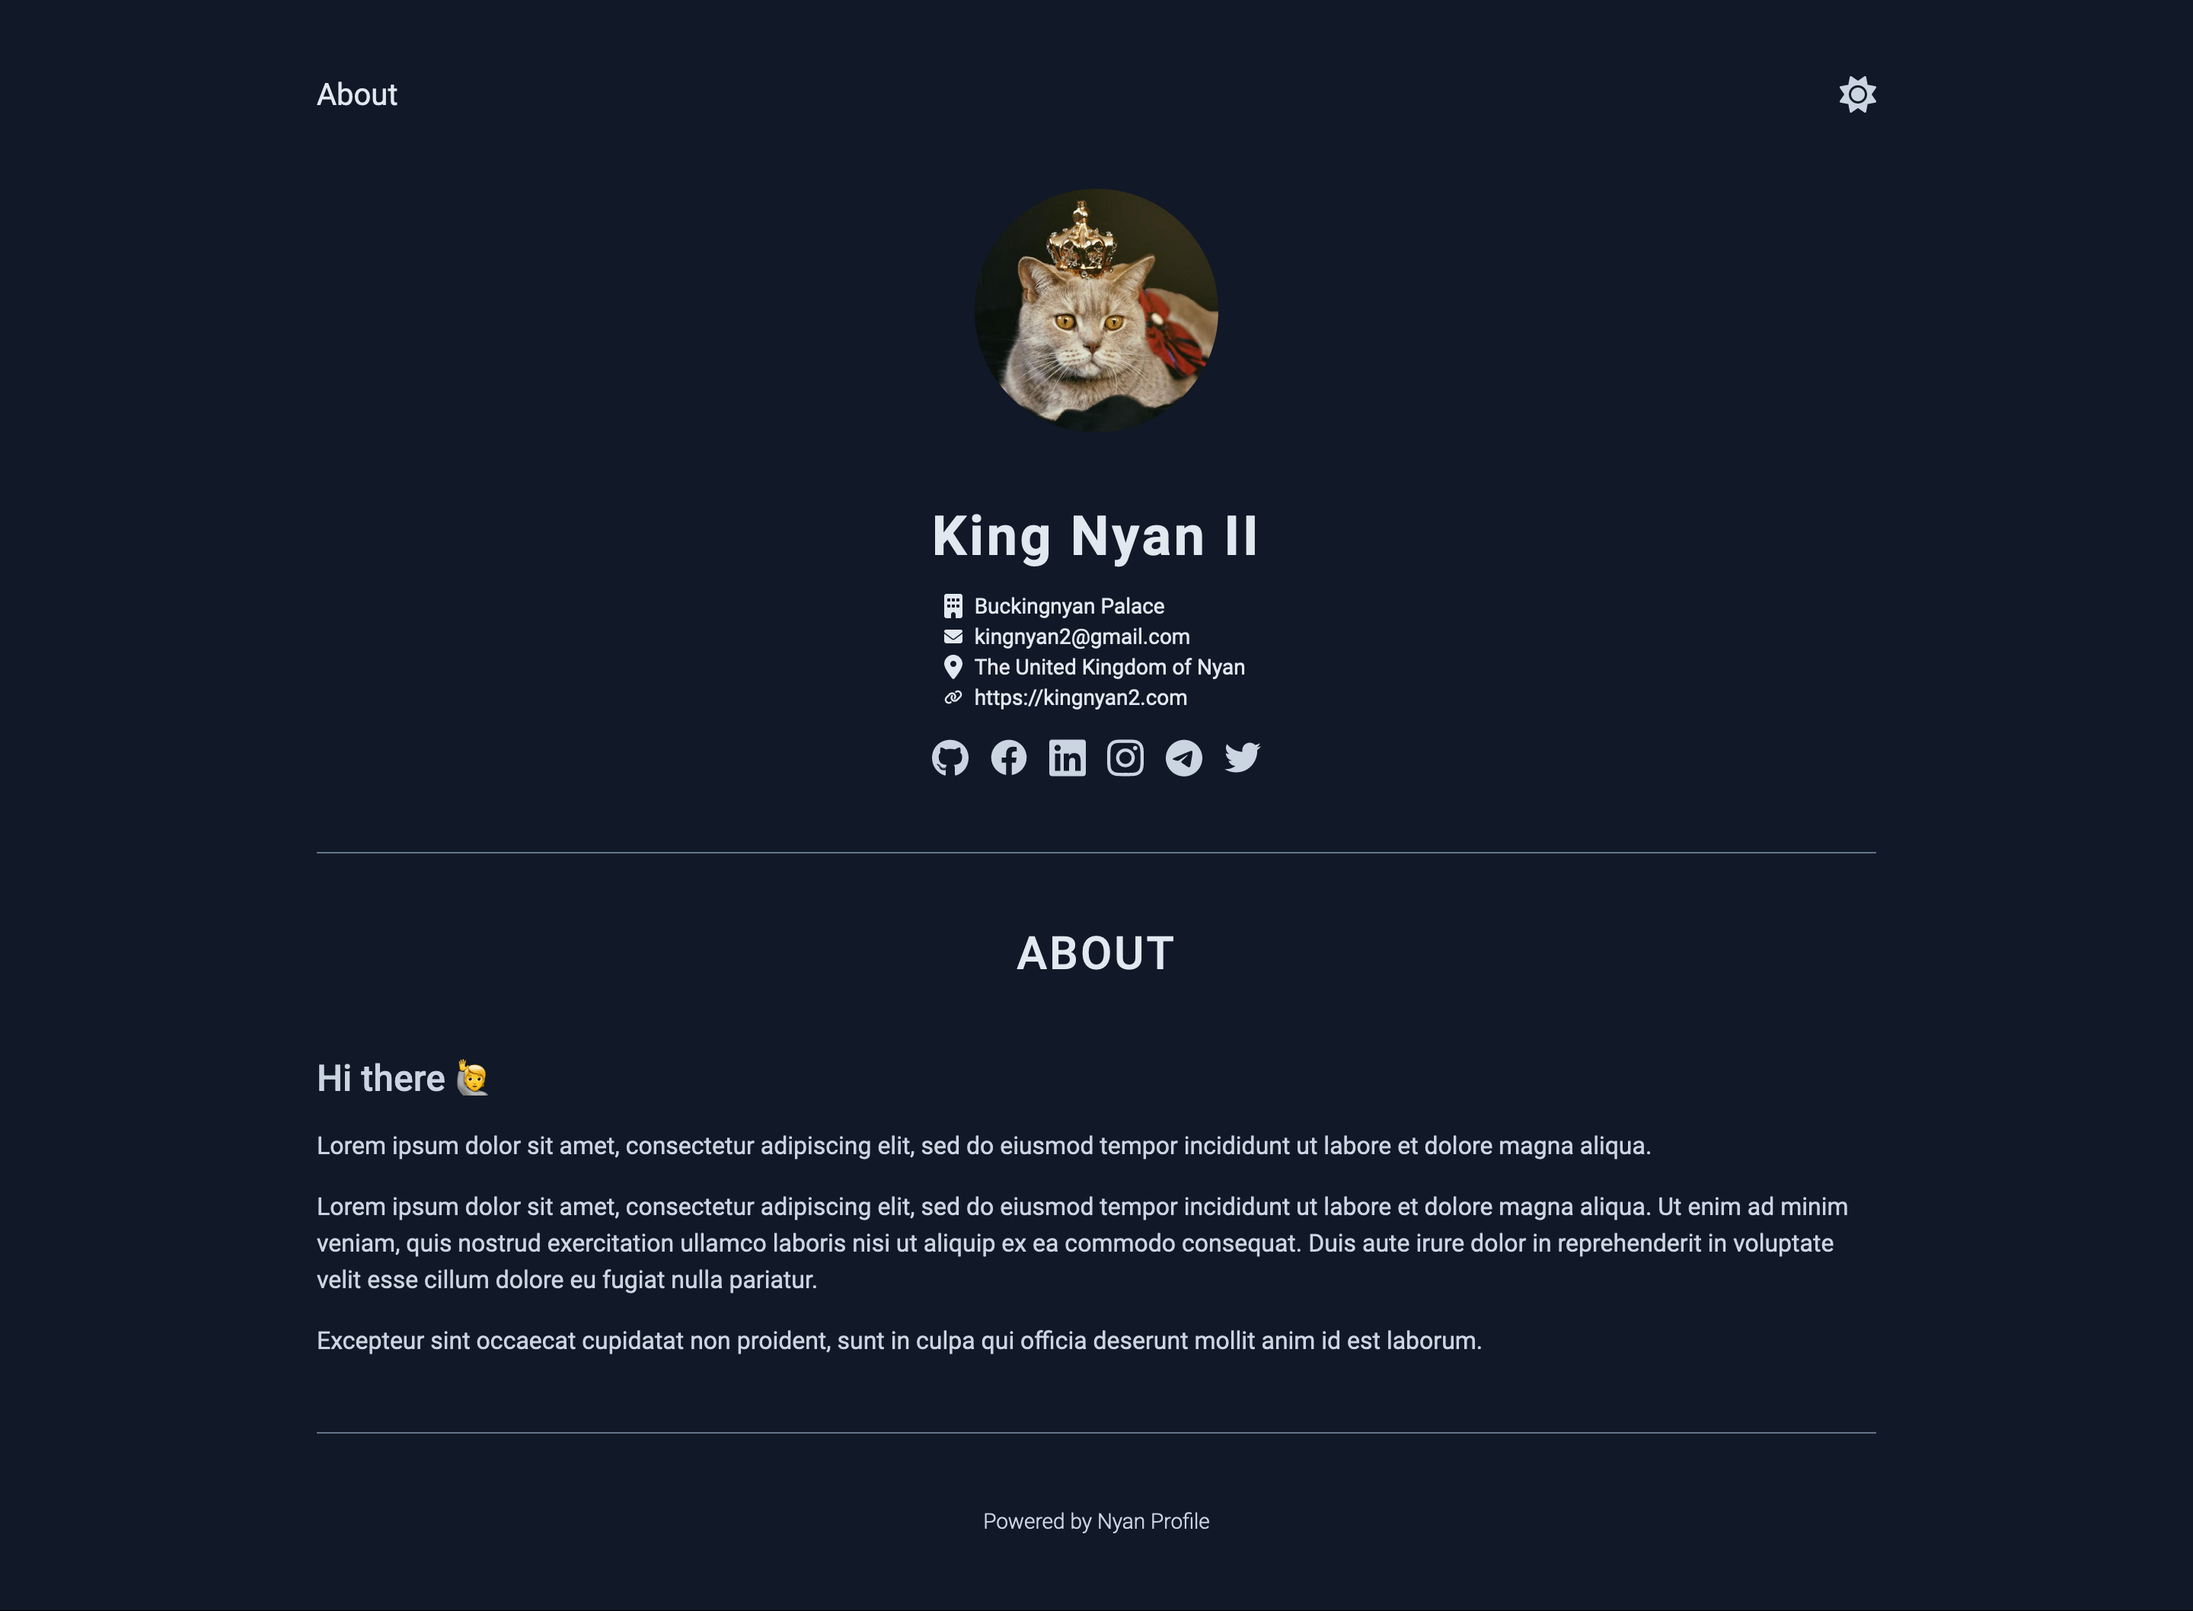
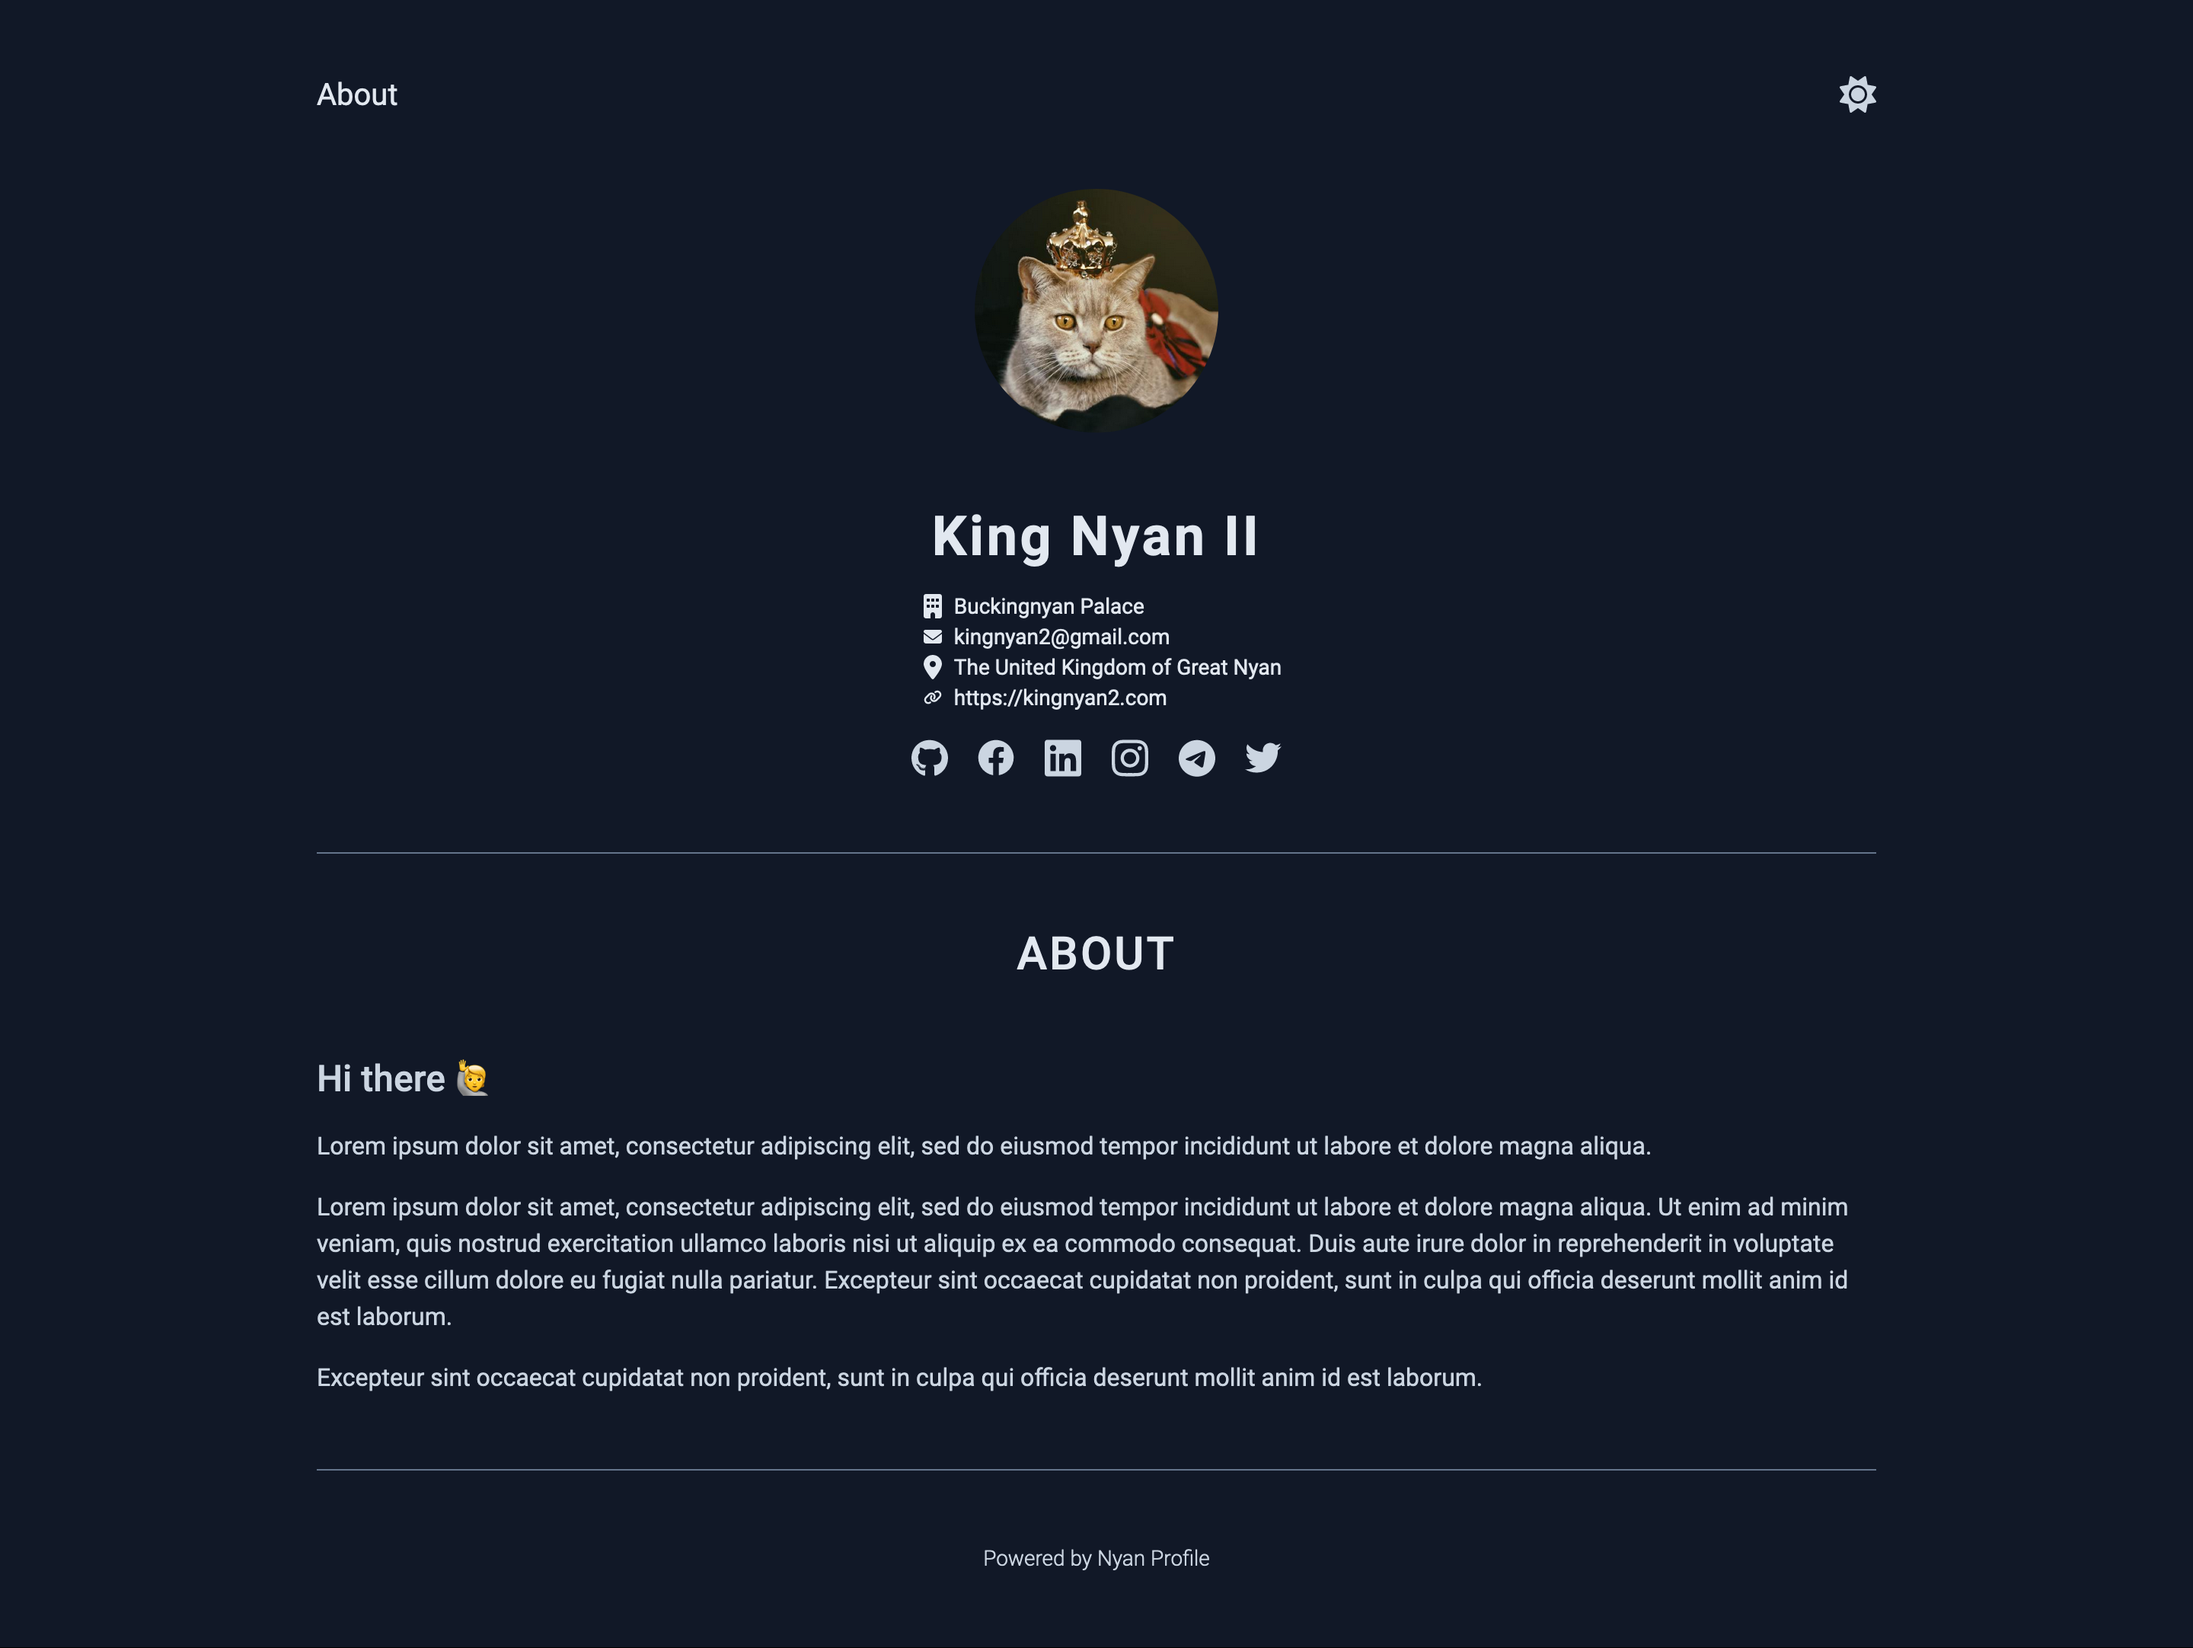
Update location

diff --git a/components/About.tsx b/components/About.tsx
@@ -8,7 +8,7 @@ export default function About() {
         Lorem ipsum dolor sit amet, consectetur adipiscing elit, sed do eiusmod tempor incididunt ut labore et dolore magna aliqua.
       </p>
       <p className="my-4">
-        Lorem ipsum dolor sit amet, consectetur adipiscing elit, sed do eiusmod tempor incididunt ut labore et dolore magna aliqua. Ut enim ad minim veniam, quis nostrud exercitation ullamco laboris nisi ut aliquip ex ea commodo consequat. Duis aute irure dolor in reprehenderit in voluptate velit esse cillum dolore eu fugiat nulla pariatur.
+        Lorem ipsum dolor sit amet, consectetur adipiscing elit, sed do eiusmod tempor incididunt ut labore et dolore magna aliqua. Ut enim ad minim veniam, quis nostrud exercitation ullamco laboris nisi ut aliquip ex ea commodo consequat. Duis aute irure dolor in reprehenderit in voluptate velit esse cillum dolore eu fugiat nulla pariatur. Excepteur sint occaecat cupidatat non proident, sunt in culpa qui officia deserunt mollit anim id est laborum.
       </p>
       <p className="my-4">
         Excepteur sint occaecat cupidatat non proident, sunt in culpa qui officia deserunt mollit anim id est laborum.
